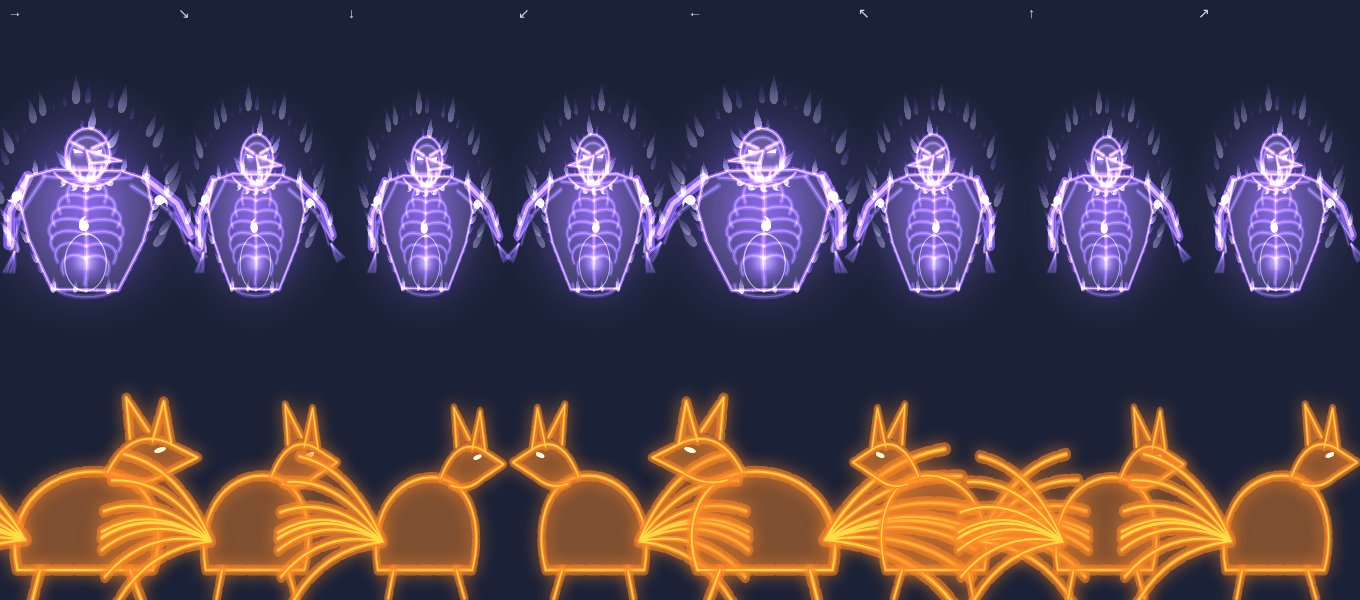
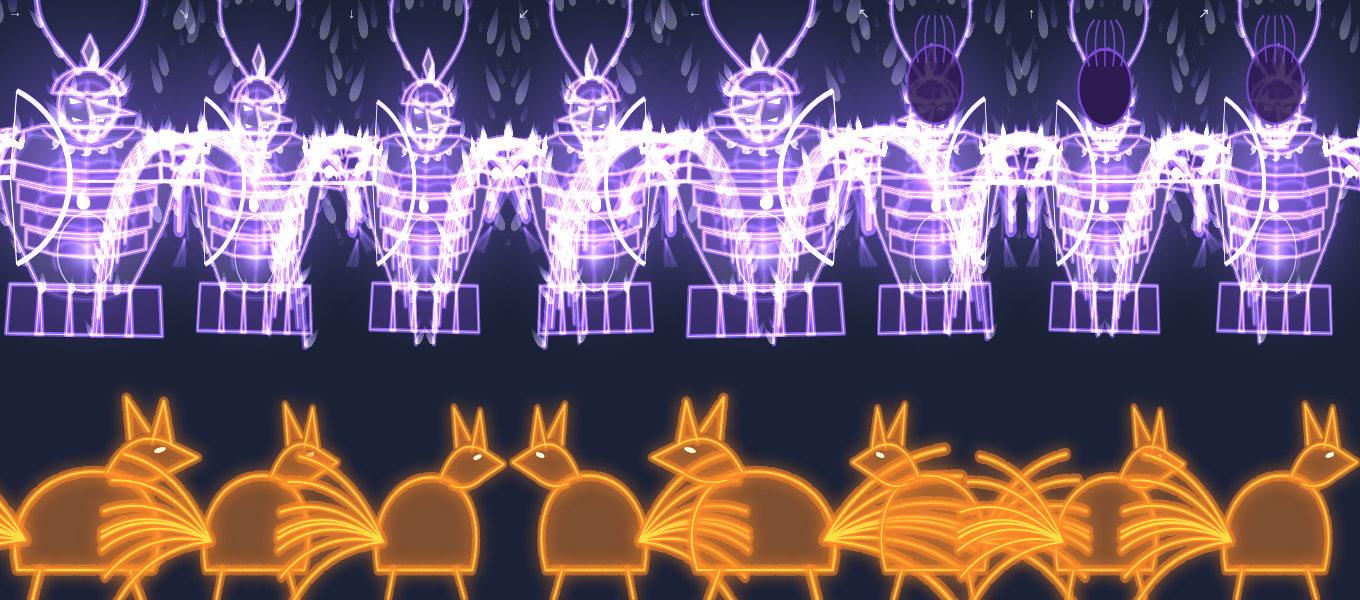
v0.10.19 Détente d’ultime, sceaux, Susanoo de dos

diff --git a/index.html b/index.html
@@ -104,7 +104,7 @@ button.b.p{background:var(--gold);color:var(--ink)}button.b.p2{background:var(--
 <script>
 'use strict';
 /* ============ Noyau : réglages, sauvegarde, entrées, audio ============ */
-const VERSION = '0.10.18';
+const VERSION = '0.10.19';
 const K10 = Math.sqrt(10); // v0.9.7 : échelle des cartes extérieures (surface ×10)
 const $ = (s) => document.querySelector(s);
 const TAU = Math.PI * 2, clamp = (v, a, b) => (v < a ? a : v > b ? b : v), lerp = (a, b, t) => a + (b - a) * t;
@@ -3972,13 +3972,13 @@ addEventListener('touchstart',()=>document.body.classList.add('touch07'),{passiv
     const T0 = Game.t, step = dur / n, sl = lookSleeve(u);
     FX.custom({ x: u.x, y: u.y, life: dur + 0.35, draw: (g, p, q) => { if (u.hp <= 0) return; const t = Game.t - T0, i = Math.min(n - 1, Math.floor(t / step)), lt = t - i * step, last = i === n - 1;
       const pop = lt < 0.08 ? 1 + 0.35 * (1 - lt / 0.08) : 1, sq = lt < 0.08 ? 1 - 0.18 * (1 - lt / 0.08) : 1; const end = last ? Math.max(0, 1 - (t - (n - 1) * step) / (step + 0.35)) : 1;
-      const x = u.x + (u.face || 1) * 4, y = u.y - 116 * (u.size || 1); g.save(); g.globalAlpha = Math.min(1, end * 3); g.translate(x, y); g.scale(pop * 1.55, sq * pop * 1.55); drawSeal(g, 0, 0, seq[i], 1, c, 0.6 + 0.4 * (lt < 0.1 ? 1 : 0.5), sl); g.restore(); } });
+      const x = u.x + (u.face || 1) * 16 * (u.size || 1), y = u.y - 64 * (u.size || 1); g.save(); g.globalAlpha = Math.min(1, end * 3); g.translate(x, y); g.scale(pop * 1.1 * (u.size || 1), sq * pop * 1.1 * (u.size || 1)); drawSeal(g, 0, 0, seq[i], 1, c, 0.6 + 0.4 * (lt < 0.1 ? 1 : 0.5), sl); g.restore(); } });
     seq.forEach((s, i) => Game.later(i * step, () => { if (u.hp <= 0) return; const last = i === n - 1;
-      for (let k = 0; k < 5; k++) FX.add({ k: 'spark', x: u.x, y: u.y - 116 * (u.size || 1), vx: rnd(-140, 140), vy: rnd(-160, 20), c, life: rnd(0.15, 0.3), s: rnd(2, 3) });
+      for (let k = 0; k < 5; k++) FX.add({ k: 'spark', x: u.x + (u.face || 1) * 16, y: u.y - 64 * (u.size || 1), vx: rnd(-140, 140), vy: rnd(-160, 20), c, life: rnd(0.15, 0.3), s: rnd(2, 3) });
       Sfx.tone && Sfx.tone(520 + i * 120, 760 + i * 120, 0.07, 'triangle', 0.05);
       if (last) { FX.shock(u.x, u.y - 50, c, 70, 0.35, 6); FX.glow(u.x, u.y - 50, c, 60, 0.3); u.sq = 0.2; } })); };
   // les petites mains au-dessus de la tête (ancien rendu) sont remplacées par le même dessin
-  drawHands = function (g, x, y, sign, t) { const a = Math.min(1, (0.55 - t) * 5); if (a <= 0) return; g.save(); g.globalAlpha = a; const pop = 1 + 0.25 * Math.max(0, 1 - t * 8); g.translate(x, y - 8); g.scale(1.3 * pop, 1.3 * pop); drawSeal(g, 0, 0, sign, 1, '#8fd3ff', 0.5); g.restore(); };
+  drawHands = function (g, x, y, sign, t) { const a = Math.min(1, (0.55 - t) * 5); if (a <= 0) return; g.save(); g.globalAlpha = a; const pop = 1 + 0.25 * Math.max(0, 1 - t * 8); g.translate(x, y - 8); g.scale(1.0 * pop, 1.0 * pop); drawSeal(g, 0, 0, sign, 1, '#8fd3ff', 0.5); g.restore(); };
   // Kage Bunshin : croix
   const cs = castSkill; castSkill = function (u, S, id, isHero) { const r = cs(u, S, id, isHero); if (id === 'bunshin' && u.sign) u.sign.k = 'bunshin'; return r; };
 })();
@@ -4266,7 +4266,17 @@ addEventListener('touchstart',()=>document.body.classList.add('touch07'),{passiv
   const wrap = (name) => { const f = MODE08[name]; if (!f) return; MODE08[name] = function (g, x, y, lvl, c, o) { const h = Game.hero, a = h && h.hd != null ? h.hd : h && h.aimA;
       if (a == null || !isFinite(a)) return f.apply(this, arguments); const vz = -Math.sin(a), az = Math.abs(vz); if (az < 0.2) return f.apply(this, arguments);
       const k = 1 - 0.3 * Math.sin(Math.PI * 0.5 * Math.min(1, az)), back = vz > 0.45 ? Math.min(1, (vz - 0.45) / 0.3) : 0;
-      g.save(); g.translate(x, y); g.scale(k, 1 - 0.06 * az); if (back) g.globalAlpha *= 1 - 0.3 * back; g.translate(-x, -y); const r = f.apply(this, arguments); g.restore(); return r; }; };
+      g.save(); g.translate(x, y); g.scale(k, 1 - 0.06 * az); if (back) g.globalAlpha *= 1 - 0.3 * back; g.translate(-x, -y); const r = f.apply(this, arguments);
+      if (back > 0.3 && name === 'drawSusanoo') backSus(g, x, y, lvl, c, back, o); g.restore(); return r; }; };
+  // Susanoo vu de dos : le visage est recouvert par l'arrière du crâne (casque/flammes), colonne vertébrale lumineuse
+  const SIL = [null, [0, -120, 92, 96], [10, -150, 120, 140], [0, -170, 150, 170], [0, -180, 175, 200], [0, -185, 190, 215]];
+  function backSus(g, x, y, lvl, c, a, o) { const L = Math.max(1, Math.min(5, lvl | 0)), S = SIL[L], K = lvl >= 5 ? 1.5 : 1 + (lvl - 1) * 0.05, f = (o && o.face) || 1;
+    const hy = S[1] - S[3] + 112 * S[3] / 170, hr = 40 * S[2] / 150, b = (o && o.build != null) ? o.build : 1; if (b < 0.6) return;
+    g.save(); g.translate(x, y); g.scale(K * f, K); g.globalAlpha *= a * Math.min(1, (b - 0.6) * 2.5);
+    g.fillStyle = shade(shade(shade(c))); g.strokeStyle = c; g.lineWidth = 4; g.beginPath(); g.ellipse(S[0], hy, hr, hr * 1.08, 0, 0, TAU); g.fill(); g.stroke();
+    g.lineWidth = 3; for (let i = -2; i <= 2; i++) { g.beginPath(); g.moveTo(S[0] + i * hr * 0.3, hy - hr * 0.6); g.quadraticCurveTo(S[0] + i * hr * 0.45, hy - hr * 1.5, S[0] + i * hr * 0.2, hy - hr * 1.9); g.stroke(); }
+    g.globalCompositeOperation = 'lighter'; g.lineWidth = 5; g.strokeStyle = c; g.beginPath(); g.moveTo(S[0], hy + hr * 1.1); g.lineTo(S[0], S[1] + S[3] * 0.1); g.stroke();
+    for (let i = 1; i <= 4; i++) { const yy = hy + hr * 1.1 + i * (S[1] + S[3] * 0.1 - hy - hr * 1.1) / 5; g.beginPath(); g.moveTo(S[0] - hr * 0.5, yy); g.lineTo(S[0] + hr * 0.5, yy); g.stroke(); } g.restore(); }
   wrap('drawSusanoo'); wrap('drawBeast');
 })();
 
@@ -4283,6 +4293,11 @@ addEventListener('touchstart',()=>document.body.classList.add('touch07'),{passiv
   const st = document.createElement('style'); st.textContent = 'body.cine10 #obj, body.cine10 #dq9, body.cine10 #trk10 { opacity: 0 !important; transition: opacity .2s }'; document.head.appendChild(st);
   setInterval(() => { document.body.classList.toggle('cine10', !!(typeof Cine !== 'undefined' && Cine.on)); }, 100);
 })();
+// v0.10.19 — détente de l'ultime : image d'impact sombre (sans flash blanc), secousse, double onde de choc, poussière, écrasement/étirement du héros
+(() => { const fu = fireUlt; fireUlt = function (u, id) { const r = fu.apply(this, arguments);
+  try { if (u && u.isHero) { const S = SK[id] || {}, c = elc(S.el || 'wind'); Game.impact(u.x, u.y - 40, 0.14); Cam.shake(0.45); Cam.z *= 1.05;
+    FX.shock(u.x, u.y - 30, c, 190, 0.45, 12); Game.later(0.08, () => FX.shock(u.x, u.y - 30, '#ffffff', 280, 0.55, 5)); FX.dust && FX.dust(u.x, u.y, 14); u.sq = -0.38; Game.later(0.12, () => { u.sq = 0.22; }); } } catch (e) {}
+  return r; }; })();
 
 // v0.10.5 — Langues : dialogues, objectifs et messages passent par LANG10.t (clé = texte source FR). Données : lang/*.tsv → python3 lang/gen.py
 (() => {

diff --git a/src/8z1_seals10.js b/src/8z1_seals10.js
@@ -45,13 +45,13 @@
     const T0 = Game.t, step = dur / n, sl = lookSleeve(u);
     FX.custom({ x: u.x, y: u.y, life: dur + 0.35, draw: (g, p, q) => { if (u.hp <= 0) return; const t = Game.t - T0, i = Math.min(n - 1, Math.floor(t / step)), lt = t - i * step, last = i === n - 1;
       const pop = lt < 0.08 ? 1 + 0.35 * (1 - lt / 0.08) : 1, sq = lt < 0.08 ? 1 - 0.18 * (1 - lt / 0.08) : 1; const end = last ? Math.max(0, 1 - (t - (n - 1) * step) / (step + 0.35)) : 1;
-      const x = u.x + (u.face || 1) * 4, y = u.y - 116 * (u.size || 1); g.save(); g.globalAlpha = Math.min(1, end * 3); g.translate(x, y); g.scale(pop * 1.55, sq * pop * 1.55); drawSeal(g, 0, 0, seq[i], 1, c, 0.6 + 0.4 * (lt < 0.1 ? 1 : 0.5), sl); g.restore(); } });
+      const x = u.x + (u.face || 1) * 16 * (u.size || 1), y = u.y - 64 * (u.size || 1); g.save(); g.globalAlpha = Math.min(1, end * 3); g.translate(x, y); g.scale(pop * 1.1 * (u.size || 1), sq * pop * 1.1 * (u.size || 1)); drawSeal(g, 0, 0, seq[i], 1, c, 0.6 + 0.4 * (lt < 0.1 ? 1 : 0.5), sl); g.restore(); } });
     seq.forEach((s, i) => Game.later(i * step, () => { if (u.hp <= 0) return; const last = i === n - 1;
-      for (let k = 0; k < 5; k++) FX.add({ k: 'spark', x: u.x, y: u.y - 116 * (u.size || 1), vx: rnd(-140, 140), vy: rnd(-160, 20), c, life: rnd(0.15, 0.3), s: rnd(2, 3) });
+      for (let k = 0; k < 5; k++) FX.add({ k: 'spark', x: u.x + (u.face || 1) * 16, y: u.y - 64 * (u.size || 1), vx: rnd(-140, 140), vy: rnd(-160, 20), c, life: rnd(0.15, 0.3), s: rnd(2, 3) });
       Sfx.tone && Sfx.tone(520 + i * 120, 760 + i * 120, 0.07, 'triangle', 0.05);
       if (last) { FX.shock(u.x, u.y - 50, c, 70, 0.35, 6); FX.glow(u.x, u.y - 50, c, 60, 0.3); u.sq = 0.2; } })); };
   // les petites mains au-dessus de la tête (ancien rendu) sont remplacées par le même dessin
-  drawHands = function (g, x, y, sign, t) { const a = Math.min(1, (0.55 - t) * 5); if (a <= 0) return; g.save(); g.globalAlpha = a; const pop = 1 + 0.25 * Math.max(0, 1 - t * 8); g.translate(x, y - 8); g.scale(1.3 * pop, 1.3 * pop); drawSeal(g, 0, 0, sign, 1, '#8fd3ff', 0.5); g.restore(); };
+  drawHands = function (g, x, y, sign, t) { const a = Math.min(1, (0.55 - t) * 5); if (a <= 0) return; g.save(); g.globalAlpha = a; const pop = 1 + 0.25 * Math.max(0, 1 - t * 8); g.translate(x, y - 8); g.scale(1.0 * pop, 1.0 * pop); drawSeal(g, 0, 0, sign, 1, '#8fd3ff', 0.5); g.restore(); };
   // Kage Bunshin : croix
   const cs = castSkill; castSkill = function (u, S, id, isHero) { const r = cs(u, S, id, isHero); if (id === 'bunshin' && u.sign) u.sign.k = 'bunshin'; return r; };
 })();

diff --git a/src/8z6_giant10.js b/src/8z6_giant10.js
@@ -3,6 +3,16 @@
   const wrap = (name) => { const f = MODE08[name]; if (!f) return; MODE08[name] = function (g, x, y, lvl, c, o) { const h = Game.hero, a = h && h.hd != null ? h.hd : h && h.aimA;
       if (a == null || !isFinite(a)) return f.apply(this, arguments); const vz = -Math.sin(a), az = Math.abs(vz); if (az < 0.2) return f.apply(this, arguments);
       const k = 1 - 0.3 * Math.sin(Math.PI * 0.5 * Math.min(1, az)), back = vz > 0.45 ? Math.min(1, (vz - 0.45) / 0.3) : 0;
-      g.save(); g.translate(x, y); g.scale(k, 1 - 0.06 * az); if (back) g.globalAlpha *= 1 - 0.3 * back; g.translate(-x, -y); const r = f.apply(this, arguments); g.restore(); return r; }; };
+      g.save(); g.translate(x, y); g.scale(k, 1 - 0.06 * az); if (back) g.globalAlpha *= 1 - 0.3 * back; g.translate(-x, -y); const r = f.apply(this, arguments);
+      if (back > 0.3 && name === 'drawSusanoo') backSus(g, x, y, lvl, c, back, o); g.restore(); return r; }; };
+  // Susanoo vu de dos : le visage est recouvert par l'arrière du crâne (casque/flammes), colonne vertébrale lumineuse
+  const SIL = [null, [0, -120, 92, 96], [10, -150, 120, 140], [0, -170, 150, 170], [0, -180, 175, 200], [0, -185, 190, 215]];
+  function backSus(g, x, y, lvl, c, a, o) { const L = Math.max(1, Math.min(5, lvl | 0)), S = SIL[L], K = lvl >= 5 ? 1.5 : 1 + (lvl - 1) * 0.05, f = (o && o.face) || 1;
+    const hy = S[1] - S[3] + 112 * S[3] / 170, hr = 40 * S[2] / 150, b = (o && o.build != null) ? o.build : 1; if (b < 0.6) return;
+    g.save(); g.translate(x, y); g.scale(K * f, K); g.globalAlpha *= a * Math.min(1, (b - 0.6) * 2.5);
+    g.fillStyle = shade(shade(shade(c))); g.strokeStyle = c; g.lineWidth = 4; g.beginPath(); g.ellipse(S[0], hy, hr, hr * 1.08, 0, 0, TAU); g.fill(); g.stroke();
+    g.lineWidth = 3; for (let i = -2; i <= 2; i++) { g.beginPath(); g.moveTo(S[0] + i * hr * 0.3, hy - hr * 0.6); g.quadraticCurveTo(S[0] + i * hr * 0.45, hy - hr * 1.5, S[0] + i * hr * 0.2, hy - hr * 1.9); g.stroke(); }
+    g.globalCompositeOperation = 'lighter'; g.lineWidth = 5; g.strokeStyle = c; g.beginPath(); g.moveTo(S[0], hy + hr * 1.1); g.lineTo(S[0], S[1] + S[3] * 0.1); g.stroke();
+    for (let i = 1; i <= 4; i++) { const yy = hy + hr * 1.1 + i * (S[1] + S[3] * 0.1 - hy - hr * 1.1) / 5; g.beginPath(); g.moveTo(S[0] - hr * 0.5, yy); g.lineTo(S[0] + hr * 0.5, yy); g.stroke(); } g.restore(); }
   wrap('drawSusanoo'); wrap('drawBeast');
 })();

diff --git a/tests/ult10.js b/tests/ult10.js
@@ -5,5 +5,5 @@ await p.goto('file:///workspace/two-blue-vortex/index.html');await p.waitForTime
 await p.evaluate(()=>{Game.startVoie({name:'Aoi',clan:'uchiha',look:makeLook(9)});window.__au=setInterval(()=>{if(Talk.on&&Talk.t>0.3){if(Talk.showing)Talk.pick(0);else Talk.next()}},250)});
 const t0=Date.now();while(Date.now()-t0<40000){if(await p.evaluate(()=>Voie.step==='a1'&&!Scene.on&&!Talk.on))break;await p.waitForTimeout(200)}
 await p.evaluate(()=>{clearInterval(window.__au);Voie.rank='chunin';Voie.step='free';Game.cine=false;const h=Game.hero;ZONE8.room=null;ZONE8.sec=null;h.x=K10*2850;h.y=K10*1300;Cam.x=h.x;Cam.y=h.y;World.foes_=[];});await p.waitForTimeout(1200);await p.evaluate(()=>{const h=Game.hero;for(let i=0;i<4;i++)spawnFoe('bandit',h.x+220+i*40,h.y+(i%2?40:-40),{});Game.ultV=100;castUlt(h);});
-const T=[0.15,0.45,0.75,1.1,1.6];let last=0;for(const t of T){await p.waitForTimeout((t-last)*1000);last=t;await p.screenshot({path:SH+PFX+'-'+t+'.png'})}
+const T=(process.env.TT||'0.15,0.45,0.75,1.1,1.6').split(',').map(Number);let last=0;for(const t of T){await p.waitForTimeout((t-last)*1000);last=t;await p.screenshot({path:SH+PFX+'-'+t+'.png'})}
 console.log('errs',errs.length,errs.slice(0,3),await p.evaluate(()=>Game.ultId));await b.close()})();

diff --git a/tests/giant10.js b/tests/giant10.js
@@ -5,7 +5,7 @@ await p.goto('file:///workspace/two-blue-vortex/index.html');await p.waitForTime
 await p.evaluate(()=>{Game.startVoie({name:'Aoi',clan:'uchiha',look:makeLook(9)});});await p.waitForTimeout(800);
 const a=await p.evaluate(`(()=>{const c=document.createElement('canvas');c.width=8*170;c.height=2*300;const g=c.getContext('2d');g.fillStyle='#1b2238';g.fillRect(0,0,c.width,c.height);const h=Game.hero;
  for(let k=0;k<8;k++){const hd=k*Math.PI/4;h.hd=hd;const face=Math.cos(hd)<-0.01?-1:1;
-  g.save();g.translate(k*170+85,270);g.scale(0.5,0.5);try{MODE08.drawSusanoo(g,0,0,3,'#7a4ad8',{t:1,build:1,sw:0,face})}catch(e){console.error(e.message)}g.restore();
+  g.save();g.translate(k*170+85,270);g.scale(0.5,0.5);try{MODE08.drawSusanoo(g,0,0,${process.env.LV||3},'#7a4ad8',{t:1,build:1,sw:0,face})}catch(e){console.error(e.message)}g.restore();
   g.save();g.translate(k*170+85,570);g.scale(0.5,0.5);try{MODE08.drawBeast(g,0,0,'#ff8a2a',{t:1,build:1,face})}catch(e){console.error(e.message)}g.restore();
   g.fillStyle='#cfd8ee';g.font='14px sans-serif';g.fillText(['→','↘','↓','↙','←','↖','↑','↗'][k],k*170+8,18)}
  return c.toDataURL()})()`);

diff --git a/src/8z7_stage10.js b/src/8z7_stage10.js
@@ -11,3 +11,8 @@
   const st = document.createElement('style'); st.textContent = 'body.cine10 #obj, body.cine10 #dq9, body.cine10 #trk10 { opacity: 0 !important; transition: opacity .2s }'; document.head.appendChild(st);
   setInterval(() => { document.body.classList.toggle('cine10', !!(typeof Cine !== 'undefined' && Cine.on)); }, 100);
 })();
+// v0.10.19 — détente de l'ultime : image d'impact sombre (sans flash blanc), secousse, double onde de choc, poussière, écrasement/étirement du héros
+(() => { const fu = fireUlt; fireUlt = function (u, id) { const r = fu.apply(this, arguments);
+  try { if (u && u.isHero) { const S = SK[id] || {}, c = elc(S.el || 'wind'); Game.impact(u.x, u.y - 40, 0.14); Cam.shake(0.45); Cam.z *= 1.05;
+    FX.shock(u.x, u.y - 30, c, 190, 0.45, 12); Game.later(0.08, () => FX.shock(u.x, u.y - 30, '#ffffff', 280, 0.55, 5)); FX.dust && FX.dust(u.x, u.y, 14); u.sq = -0.38; Game.later(0.12, () => { u.sq = 0.22; }); } } catch (e) {}
+  return r; }; })();

diff --git a/src/10_core.js b/src/10_core.js
@@ -1,6 +1,6 @@
 'use strict';
 /* ============ Noyau : réglages, sauvegarde, entrées, audio ============ */
-const VERSION = '0.10.18';
+const VERSION = '0.10.19';
 const K10 = Math.sqrt(10); // v0.9.7 : échelle des cartes extérieures (surface ×10)
 const $ = (s) => document.querySelector(s);
 const TAU = Math.PI * 2, clamp = (v, a, b) => (v < a ? a : v > b ? b : v), lerp = (a, b, t) => a + (b - a) * t;

diff --git a/PATCH_NOTES.md b/PATCH_NOTES.md
@@ -1,3 +1,8 @@
+## v0.10.19 — Détente d’ultime, sceaux, Susanoo de dos
+- Détente de l’ultime : image d’impact sombre (pas de flash), secousse, double onde de choc, poussière, écrasement/étirement.
+- Sceaux à hauteur de poitrine, à l’échelle du héros.
+- Susanoo vu de dos : arrière du crâne et colonne au lieu du visage.
+
 ## v0.10.18 — Mise en scène des ultimes
 - Arbres, torii et tentes devant le héros s’estompent (fort pendant l’ultime) : le héros reste visible.
 - HUD de quête masqué pendant les cinématiques (bandeau propre).
